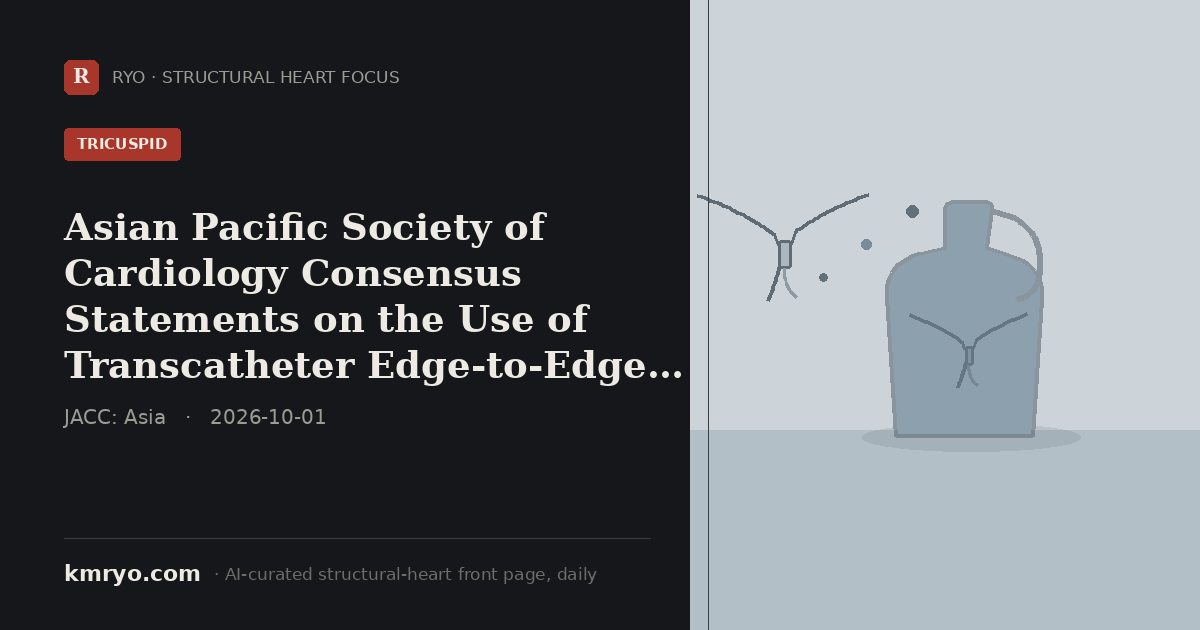
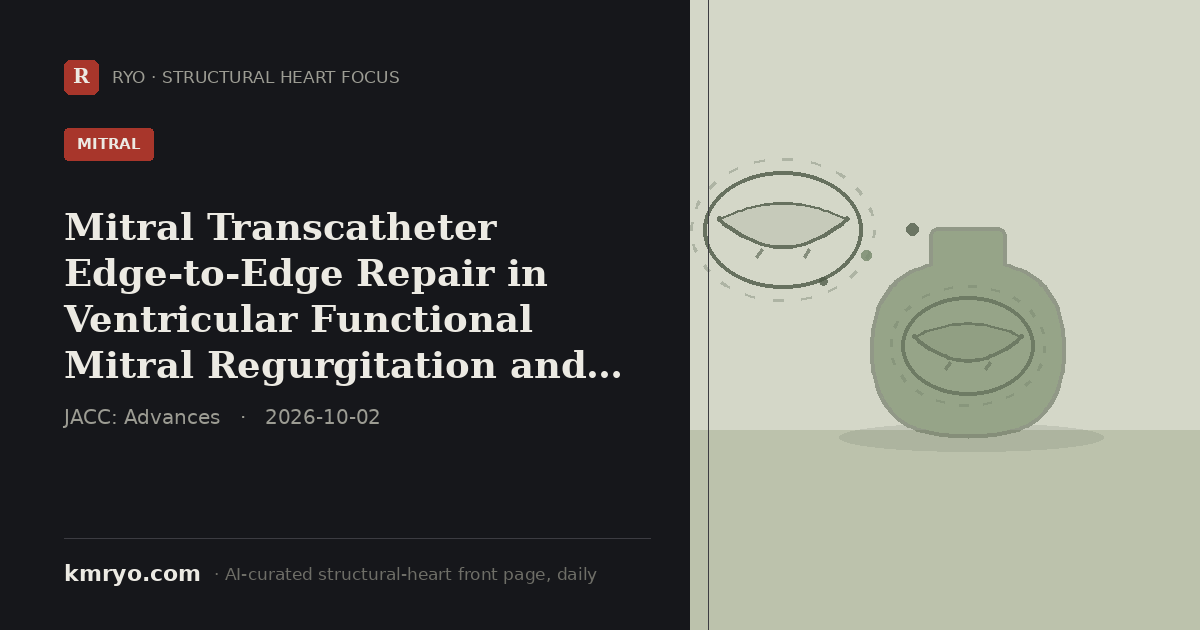
pulse: 2026-10-02 daily update
Claude-Session: https://claude.ai/code/session_01UQjXpHJZv3h8vHndd8NVvq

Changed region(s): [[0.555, 0.2714, 1.0, 1.0], [0.0308, 0.3317, 0.555, 0.6937], [0.0617, 0.181, 0.1542, 0.2714]]

diff --git a/index.html b/index.html
@@ -6,8 +6,8 @@
 <title>Structural Heart Focus — Daily | Dr. Mi Chen · 千觅量子 RYO</title>
 <meta name="description" content="Structural Heart Focus — the day's most important structural-heart reading (top journals, major meetings and the field's conversation), curated daily by an AI agent from inside the Zurich hybrid room. By Dr. Mi Chen · 千觅量子 RYO.">
 <!-- Social share card. Regenerated daily by the pulse agent (pulse/make_share_card.py); og:title/description updated to the day's top story so LinkedIn/WeChat/X show today's headline, not a static portrait. -->
-<meta property="og:title" content="Asian Pacific Society of Cardiology Consensus Statements on the Use of Transcatheter Edge-to-Edge Repair in the Treatment of Tricuspid and Mitral Regurgitation">
-<meta property="og:description" content="APSC issues its first Asia-Pacific consensus on TEER for tricuspid and mitral regurgitation, with 16 recommendations on Heart Team evaluation and imaging-based patient selection.">
+<meta property="og:title" content="Mitral Transcatheter Edge-to-Edge Repair in Ventricular Functional Mitral Regurgitation and Very Severe Left Ventricular Dysfunction">
+<meta property="og:description" content="OCEAN-Mitral registry (n=1,538): M-TEER is feasible with 100% acute success in patients with LVEF &lt;20%, though cardiovascular mortality remains twice as high as in less severe LV dysfunction.">
 <meta property="og:image" content="https://www.kmryo.com/pulse/img/share/card.png">
 <meta property="og:image:width" content="1200">
 <meta property="og:image:height" content="630">
@@ -16,8 +16,8 @@
 <meta property="og:type" content="website">
 <meta property="og:site_name" content="kmryo.com · Structural Heart Focus">
 <meta name="twitter:card" content="summary_large_image">
-<meta name="twitter:title" content="Asian Pacific Society of Cardiology Consensus Statements on the Use of Transcatheter Edge-to-Edge Repair in the Treatment of Tricuspid and Mitral Regurgitation">
-<meta name="twitter:description" content="APSC issues its first Asia-Pacific consensus on TEER for tricuspid and mitral regurgitation, with 16 recommendations on Heart Team evaluation and imaging-based patient selection.">
+<meta name="twitter:title" content="Mitral Transcatheter Edge-to-Edge Repair in Ventricular Functional Mitral Regurgitation and Very Severe Left Ventricular Dysfunction">
+<meta name="twitter:description" content="OCEAN-Mitral registry (n=1,538): M-TEER is feasible with 100% acute success in patients with LVEF &lt;20%, though cardiovascular mortality remains twice as high as in less severe LV dysfunction.">
 <meta name="twitter:image" content="https://www.kmryo.com/pulse/img/share/card.png">
[1 lines of base64/hex data omitted]
 <link rel="preconnect" href="https://fonts.googleapis.com">
